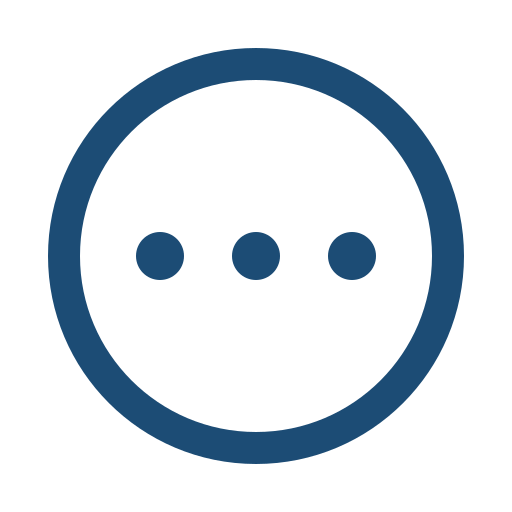
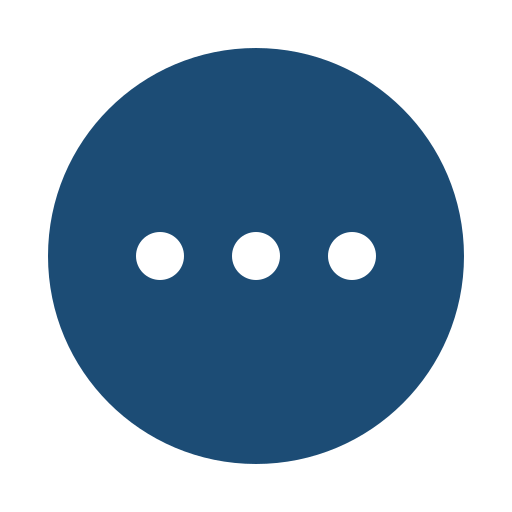
[navbar]: Creating the navbar (left pane)

diff --git a/src/dashboard/Dashboard.js b/src/dashboard/Dashboard.js
@@ -93,7 +93,7 @@ const Styles = styled.div `
 
 .navbar-options-container {
     position: relative;
-    border: 1px solid black;
+    // border: 1px solid black;
     margin-top: 15%;
     height: 85vh;
     margin-left: 5%;
@@ -271,7 +271,7 @@ const Styles = styled.div `
     //! - - Left pane footer - - !//
 
 .left-pane-footer {
-    border: 1px solid black;
+    // border: 1px solid black;
 }
 
 .left-pane-footer-left {
@@ -2945,21 +2945,21 @@ export default class Dashboard extends Component {
         //* - - MORE OPTIONS - - *//
 
     moreOptionEnter = () => {
-        this.setState({ dashboardOptionHovered: true })
+        this.setState({ moreOptionHovered: true })
     }
 
     moreOptionLeave = () => {
-        this.setState({ dashboardOptionHovered: false })
+        this.setState({ moreOptionHovered: false })
     }
 
     moreNavOptionClicked = () => {
-        if (this.state.dashboardOptionClicked === false) {
+        if (this.state.moreOptionClicked === false) {
             this.setState({
-                dashboardOptionClicked: true,
-                showDashboardSuboptions: true,
+                moreOptionClicked: true,
+                showMoreSuboptions: true,
             })
         } else {
-            this.setState({ dashboardOptionClicked: false, showDashboardSuboptions: false })
+            this.setState({ moreOptionClicked: false, showMoreSuboptions: false })
         }
     }
 
@@ -4041,10 +4041,10 @@ export default class Dashboard extends Component {
                                 onClick={this.moreNavOptionClicked}
                                 style={{border: `1px solid ${this.state.moreOptionHovered ? this.state.moreOptionClicked || this.state.moreSubActive !== "" ? "#1c4c75" : "#707a9f" : this.state.moreOptionClicked || this.state.moreSubActive !== "" ? "#1c4c75" : "transparent"}`, backgroundColor: this.state.moreOptionClicked ? "#E0F4FC" : ""}} className="navbar-option-cell">
                                     <div className="navbar-option-icon">
-                                        <img src={this.state.moreOptionHovered || this.state.moreOptionClicked ? "/assets/dashboard-option-icon-color2.png" : "/assets/dashboard-option-icon.png"}/>
+                                        <img src={this.state.moreOptionHovered || this.state.moreOptionClicked ? "/assets/more-option-icon-color.png" : "/assets/more-option-icon.png"}/>
                                     </div>
                                     <div className="navbar-option-text">
-                                        <p style={{color: this.state.moreOptionHovered || this.state.moreOptionClicked ? "#1c4c75" : "", fontWeight: this.state.moreOptionClicked ? "bold" : "", marginBottom: (!this.state.moreOptionClicked && (this.state.moreSub1Clicked || this.state.moreSub2Clicked)) ? "0px" : ""}}>Dashboard</p>
+                                        <p style={{color: this.state.moreOptionHovered || this.state.moreOptionClicked ? "#1c4c75" : "", fontWeight: this.state.moreOptionClicked ? "bold" : "", marginBottom: (!this.state.moreOptionClicked && (this.state.moreSub1Clicked || this.state.moreSub2Clicked)) ? "0px" : ""}}>More</p>
                                         {(!this.state.moreOptionClicked && (this.state.moreSub1Clicked || this.state.moreSub2Clicked)) && 
                                             <div className="active-sub-option">
                                                 <p><span style={{color: "#41A75B"}}>ACTIVE: </span>{this.state.moreSubActive}</p>
@@ -4063,7 +4063,7 @@ export default class Dashboard extends Component {
                                 >
                                     <div className="dashboard-option-subs">
                                         <div className="dashboard-option-sub-connector">
-                                            <div className="dashboard-option-sub-connector-line"><span style={{color: "transparent", cursor: "default"}}>|</span></div>
+                                            <div style={{paddingBottom: "110%"}} className="dashboard-option-sub-connector-line"><span style={{color: "transparent", cursor: "default"}}>|</span></div>
                                         </div>
                                         <div className="dashboard-option-sub-text">
                                             <div 
@@ -4083,8 +4083,8 @@ export default class Dashboard extends Component {
                                                         />
                                                     </span>
                                                 }
-                                                {this.state.showMoreSub1Loaded && 
-                                                    <img style={{height: "7%", width: "7%", marginRight: "4%", marginTop: "6%"}} src="/assets/dashboard-sub-option-open.png"/>
+                                                {true && 
+                                                    <img style={{height: "7%", width: "7%", marginRight: "4%", marginTop: "6%"}} src="/assets/dashboard-sub-option-link.png"/>
                                                 }
                                             </div>
                                             <div 
@@ -4104,8 +4104,8 @@ export default class Dashboard extends Component {
                                                         />
                                                     </span>
                                                 }
-                                                {this.state.showMoreSub2Loaded && 
-                                                    <img style={{height: "7%", width: "7%", marginRight: "4%", marginTop: "6%"}} src="/assets/dashboard-sub-option-open.png"/>
+                                                {true && 
+                                                    <img style={{height: "7%", width: "7%", marginRight: "4%", marginTop: "6%"}} src="/assets/dashboard-sub-option-link.png"/>
                                                 }
                                             </div>
                                         </div>
